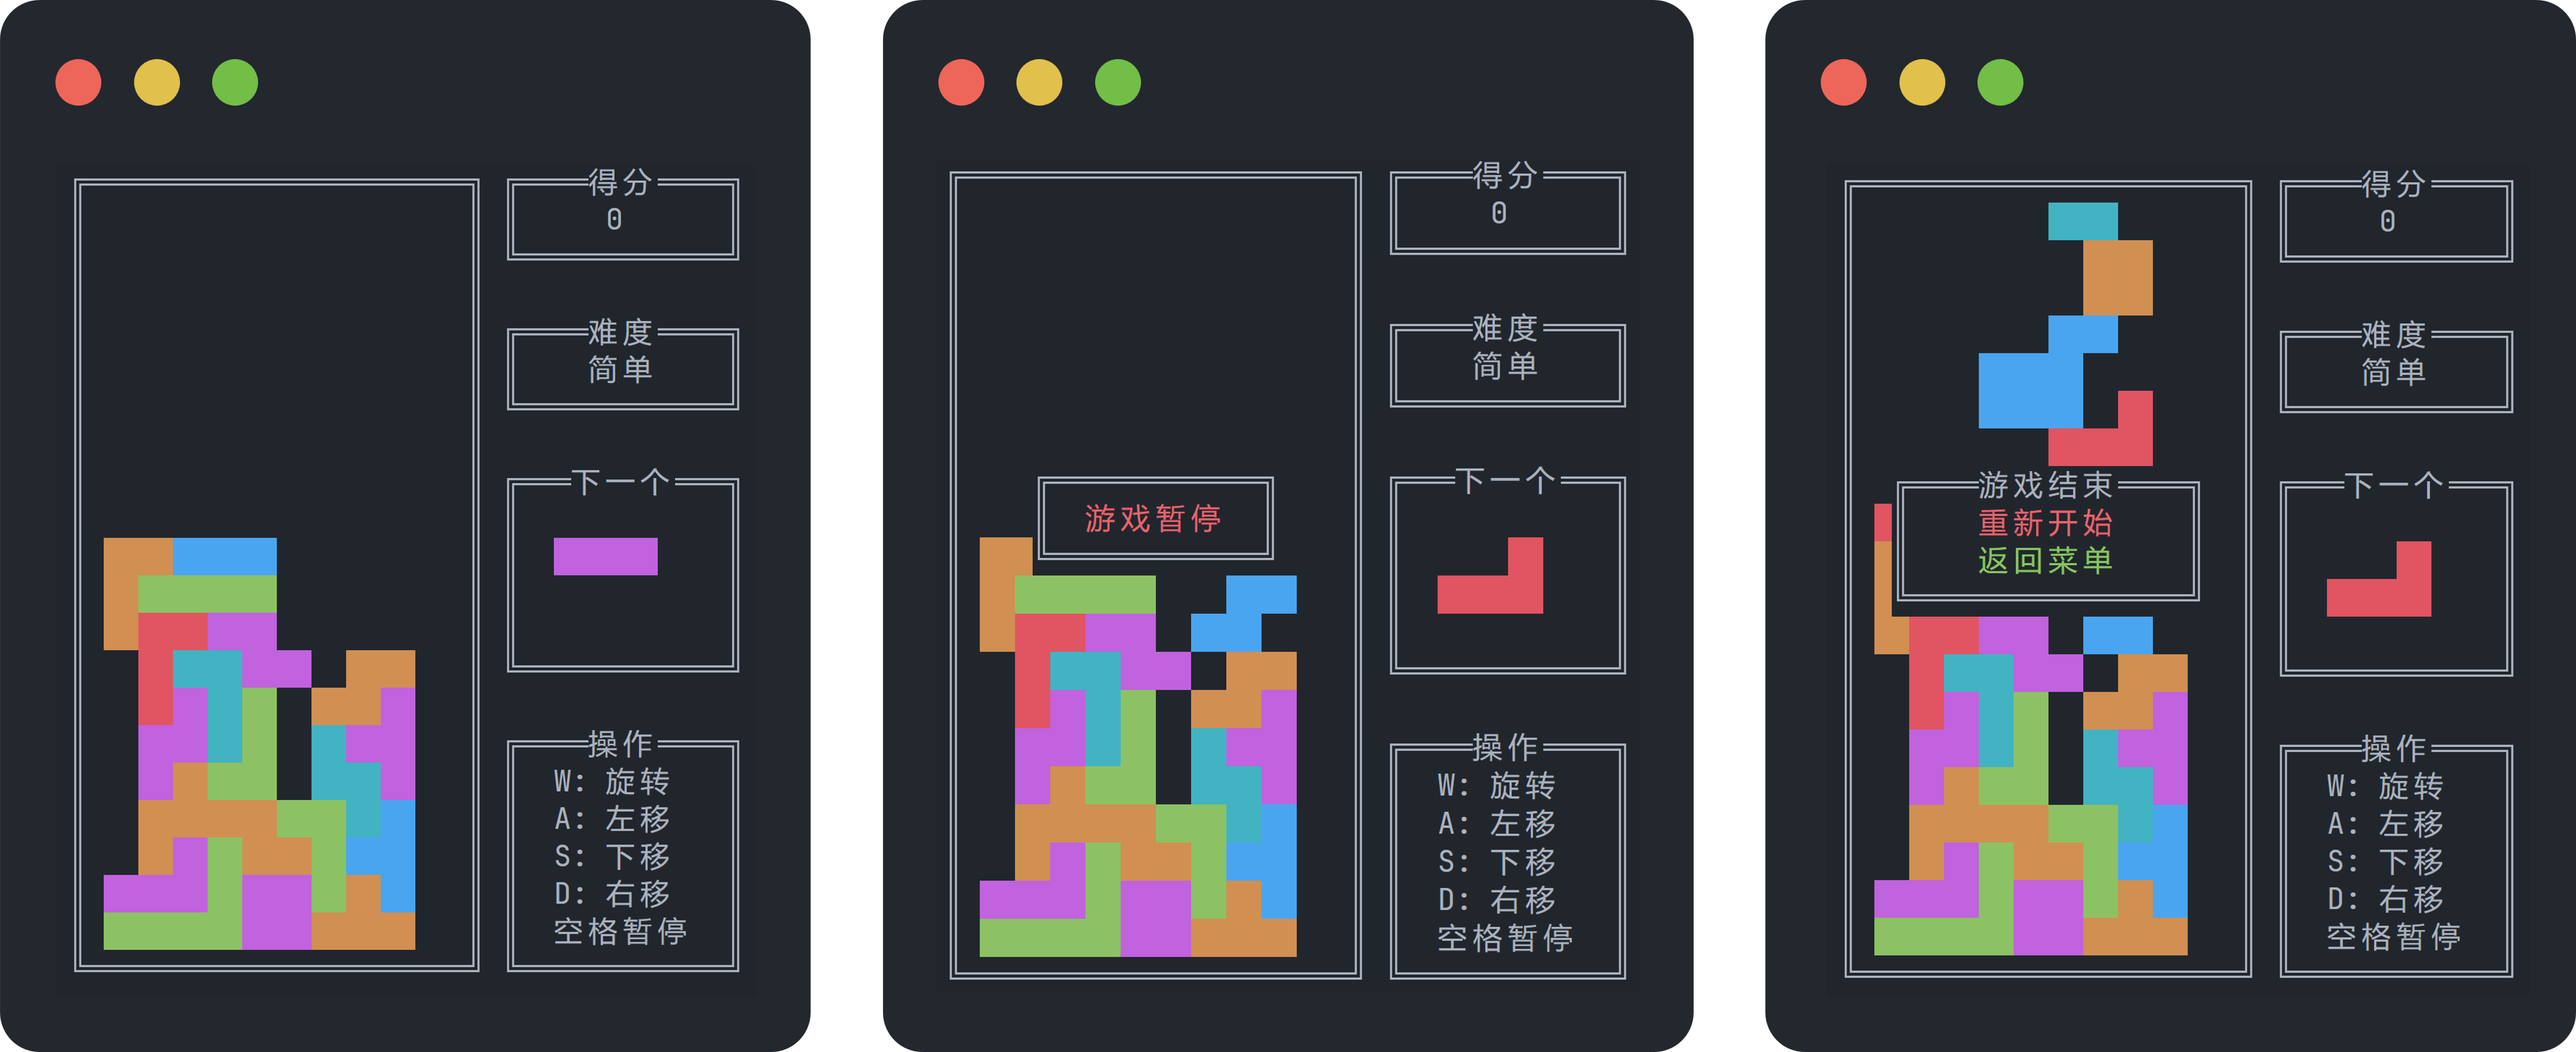
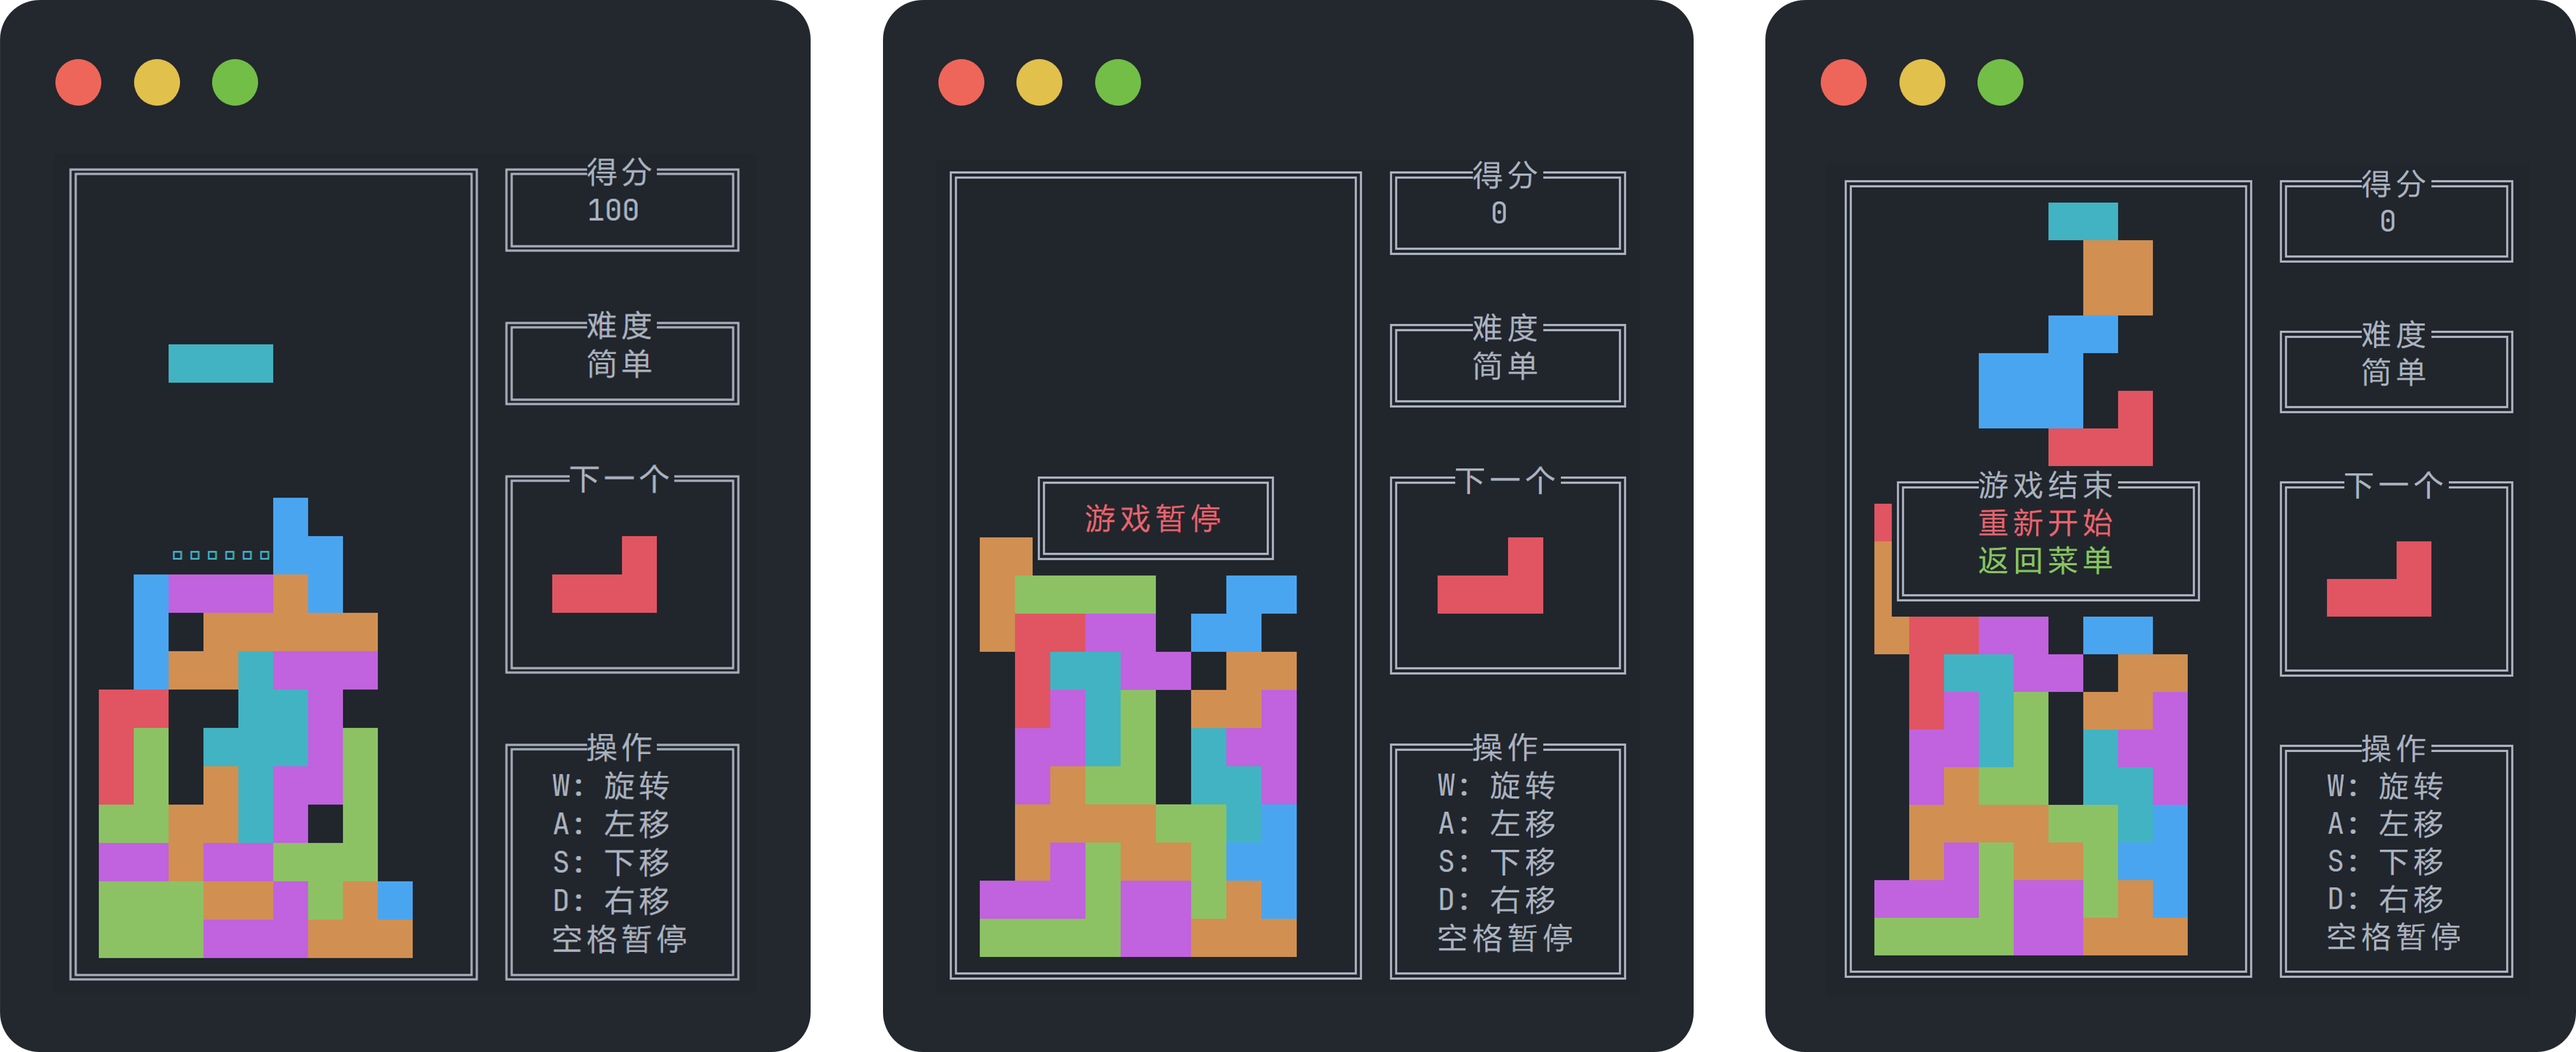
feat: Add drop location display

Changed region(s): [[0.031, 0.1554, 0.3103, 0.9325], [0.0621, 0.3108, 0.1241, 0.373]]

diff --git a/test/test.cpp b/test/test.cpp
@@ -35,8 +35,10 @@ void Test::print_map(const std::vector<std::vector<Color>>& map) {
         for(auto col: row) {
             if(col == Color::NONE) {
                 std::cout << "  ";
-            } else {
+            } else if((int)col <= 6){
                 std::cout << "██";
+            } else {
+                std::cout << "▫▫";
             }
         }
         std::cout << " ║" << std::endl;
@@ -48,8 +50,17 @@ void Test::print_map(const std::vector<std::vector<Color>>& map) {
     std::cout << "═╝" << std::endl;
 }
 
+void print(const std::vector<std::vector<Color>>& map) {
+    for(auto row: map) {
+        for(auto col: row) {
+            std::cout << int(col) << " ";
+        }
+        std::cout << std::endl;
+    }
+}
+
 Test::~Test() {
-    std::cout << GREEN << "All Tests Passed!" << std::endl;
+    std::cout << ANSI_GREEN << "All Tests Passed!" << std::endl;
 }
 
 void Test::block_test() {
@@ -122,7 +133,7 @@ void Test::block_test() {
     CHECK_EQUAL(long_stick.right(), 5);
     CHECK_EQUAL(long_stick.top(), 4);
 
-    std::cout << GREEN << "block_test() Passed!" << RESET << std::endl;
+    std::cout << ANSI_GREEN << "block_test() Passed!" << RESET << std::endl;
 }
 
 void Test::table_test() {
@@ -131,6 +142,7 @@ void Test::table_test() {
         {(Color)0, (Color)0, (Color)0, (Color)0, (Color)0},
         {(Color)0, (Color)0, (Color)0, (Color)0, (Color)0},
         {(Color)0, (Color)0, (Color)0, (Color)0, (Color)0},
+
         {(Color)0, (Color)0, (Color)0, (Color)0, (Color)0},
         {(Color)0, (Color)0, (Color)0, (Color)0, (Color)0},
         {(Color)0, (Color)0, (Color)0, (Color)0, (Color)0},
@@ -140,23 +152,23 @@ void Test::table_test() {
     };
     Table table = Table(5 ,6, map);
     table.spawn(Block(BlockType::STAIR_LEFT, 0, 0));
-    CHECK_EQUAL((int)table.touch(), (int)TouchType::NONE);
+    CHECK_EQUAL((int)table.touch(table.block_), (int)TouchType::NONE);
     print_map(table.map());
 
-    table.spawn(Block(BlockType::STAIR_LEFT, -1, 0));
-    CHECK_EQUAL((int)table.touch(), (int)TouchType::BORDER);
+    table.spawn(Block(BlockType::STAIR_RIGHT, -1, 0));
+    CHECK_EQUAL((int)table.touch(table.block_), (int)TouchType::BORDER);
     print_map(table.map());
 
-    table.spawn(Block(BlockType::STAIR_LEFT, 1, 5));
-    CHECK_EQUAL((int)table.touch(), (int)TouchType::NONE);
+    table.spawn(Block(BlockType::STICK, 1, 5));
+    CHECK_EQUAL((int)table.touch(table.block_), (int)TouchType::NONE);
     print_map(table.map());
 
-    table.spawn(Block(BlockType::STAIR_LEFT, 1, 6));
-    CHECK_EQUAL((int)table.touch(), (int)TouchType::BOTTOM);
+    table.spawn(Block(BlockType::LONG_STICK, 1, 6));
+    CHECK_EQUAL((int)table.touch(table.block_), (int)TouchType::NONE);
     print_map(table.map());
 
-    table.spawn(Block(BlockType::STAIR_LEFT, 1, 10));
-    CHECK_EQUAL((int)table.touch(), (int)TouchType::BOTTOM);
+    table.spawn(Block(BlockType::STAIR, 1, 10));
+    CHECK_EQUAL((int)table.touch(table.block_), (int)TouchType::BOTTOM);
     print_map(table.map());
 
     table.remove_line();
@@ -194,18 +206,17 @@ void Test::table_test() {
     print_map(table.map());
 
     print_map(table.map());
-    table.spawn(Block(BlockType::STAIR_LEFT, 0, 6));
+    table.spawn(Block(BlockType::CORNER_LEFT, 0, 6));
     print_map(table.map());
     table.rotate();
     print_map(table.map());
     CHECK_EQUAL(table.update(Input::RIGHT), false);
-    CHECK_EQUAL((int)table.touch(), (int)TouchType::NONE);
-    CHECK_EQUAL(table.update(Input::DOWN), false);
+    CHECK_EQUAL((int)table.touch(table.block_), (int)TouchType::NONE);
     CHECK_EQUAL(table.update(Input::DOWN), true);
     table.remove_line();
     print_map(table.map());
 
-    table.spawn(Block(BlockType::STAIR_LEFT, 0, 3));
+    table.spawn(Block(BlockType::CORNER_RIGHT, 0, 3));
     table.set_block();
     print_map(table.map());
     CHECK_EQUAL(table.game_loss(), false);

diff --git a/src/table.cpp b/src/table.cpp
@@ -68,7 +68,7 @@ bool Table::update(Input input) {
 void Table::rotate() {
     block_.rotate();
     // 如果有碰撞，则再旋转三次还原
-    if(touch() != TouchType::NONE) {
+    if(touch(block_) != TouchType::NONE) {
         block_.rotate();
         block_.rotate();
         block_.rotate();
@@ -84,8 +84,33 @@ Table::TableArr Table::map() {
         }
     }
 
+    // Block 下落位置
+    Block shadow_block = block_;
+    for(int i = 0; i < map_.size(); i++) {
+        shadow_block.move(0, 1);
+        if(touch(shadow_block) != TouchType::NONE) {
+            shadow_block.move(0, -1);
+            break;
+        }
+    }
+    block::BlockArr arr_s = shadow_block.arr();
     size_t x = 0, y = 0;
+    for(int i = shadow_block.y(); i <= shadow_block.bottom(); i++) { // 行
+        x = 0;
+        for(int j = shadow_block.x(); j <= shadow_block.right(); j++) { // 列
+            if((i >= hidden_ && i < height_ + hidden_)
+                        && (j >= 0 && j < width_)
+                        && arr_s.at(y).at(x) == 1) {
+                copy.at(i - hidden_).at(j) = (Color)((int)shadow_block.color() + 6);
+            }
+            x++;
+        }
+        y++;
+    }
+
+    // Block 位置
     block::BlockArr arr = block_.arr();
+    y = 0;
     for(int i = block_.y(); i <= block_.bottom(); i++) { // 行
         x = 0;
         for(int j = block_.x(); j <= block_.right(); j++) { // 列
@@ -98,6 +123,7 @@ Table::TableArr Table::map() {
         }
         y++;
     }
+
     return copy;
 }
 
@@ -130,14 +156,14 @@ size_t Table::height() {
 
 void Table::move_block(int x) {
     block_.move(x, 0);
-    if(touch() != TouchType::NONE) {
+    if(touch(block_) != TouchType::NONE) {
         block_.move(-x, 0);
     }
 }
 
 bool Table::gravity() {
     block_.move(0, 1);
-    if(touch() == TouchType::BOTTOM) {
+    if(touch(block_) == TouchType::BOTTOM) {
         block_.move(0, -1);
         set_block();
         return true;
@@ -150,19 +176,19 @@ void Table::set_block() {
     removed_line_ = remove_line();
 }
 
-TouchType Table::touch() {
+TouchType Table::touch(Block block) {
     // 检查边界
-    if(block_.left() < 0 || block_.right() > width_ - 1) {
+    if(block.left() < 0 || block.right() > width_ - 1) {
         return TouchType::BORDER;
-    } else if(block_.bottom() >= height_ + hidden_) {
+    } else if(block.bottom() >= height_ + hidden_) {
         return TouchType::BOTTOM;
     }
     // 检查其他方块
     size_t x = 0, y = 0;
-    block::BlockArr arr = block_.arr();
-    for(int i = block_.y(); i <= block_.bottom(); i++) { // 行
+    block::BlockArr arr = block.arr();
+    for(int i = block.y(); i <= block.bottom(); i++) { // 行
         x = 0;
-        for(int j = block_.x(); j <= block_.right(); j++) { // 列
+        for(int j = block.x(); j <= block.right(); j++) { // 列
             if((i > hidden_ - 1 && i < height_ + hidden_) && (j >= 0 && j < width_)) {
                 if(arr.at(y).at(x) == 1 && map_.at(i).at(j) != Color::NONE) {
                     return TouchType::BOTTOM;

diff --git a/test/test.h b/test/test.h
@@ -4,16 +4,16 @@
 #include "block.h"
 #include "table.h"
 
-#define RED "\x1b[0;31m"
-#define GREEN "\x1b[1;32m"
-#define BLUE "\x1b[1;34m"
+#define ANSI_RED "\x1b[0;31m"
+#define ANSI_GREEN "\x1b[1;32m"
+#define ANSI_BLUE "\x1b[1;34m"
 #define RESET "\x1b[0;m"
 
 template<typename value>
 void check_equal(int line, std::string str1, std::string str2, value val1, value val2) {
     if(val1 != val2) {
-        std::cerr << RED << "expected " << BLUE << str1 << RED << " to be " << GREEN << val1
-            << RED << " but get " << BLUE << val2 << RED << " at line " << line << RESET << std::endl;
+        std::cerr << ANSI_RED << "expected " << ANSI_BLUE << str1 << ANSI_RED << " to be " << ANSI_GREEN << val1
+            << ANSI_RED << " but get " << ANSI_BLUE << val2 << ANSI_RED << " at line " << line << RESET << std::endl;
         throw;
     }
 }

diff --git a/src/display.cpp b/src/display.cpp
@@ -113,6 +113,7 @@ void Display::difficulty(int select) {
     print_tail(menu_width_);
 }
 
+// TODO: 拆分，解决终端渲染闪烁问题
 void Display::game_panel(
         Table& table,
         int score,
@@ -138,6 +139,8 @@ void Display::game_table(Table& table) {
         for(int j = 0; j < width; j++) {
             if(map[i][j] == Color::NONE) {
                 std::cout << "  ";
+            } else if((int)map[i][j] > 6){
+                std::cout << with_color("▫▫", (Color)((int)map[i][j] - 6));
             } else {
                 std::cout << with_color("██", map[i][j]);
             }

diff --git a/include/table.h b/include/table.h
@@ -55,7 +55,7 @@ public:
     // 旋转方块
     void rotate();
 
-    // 获取游戏棋盘的矩阵（包含方块）
+    // 获取游戏棋盘的矩阵（包含方块和下落位置）
     TableArr map();
 
     // 获取游戏棋盘的宽度
@@ -75,7 +75,7 @@ private:
     void set_block();
 
     // 检查是否碰到边界或其他方块, 返回碰撞类型
-    TouchType touch();
+    TouchType touch(Block block);
 
     // 消去满足要求的行, 返回消除的行数
     int remove_line();

diff --git a/include/block.h b/include/block.h
@@ -15,13 +15,19 @@ enum class BlockType {
 };
 
 enum class Color {
-    NONE    = 0,
-    RED     = 1,
-    GREEN   = 2,
-    YELLOW  = 3,
-    BLUE    = 4,
-    PURPLE  = 5,
-    CYAN    = 6
+    NONE     = 0,
+    RED      = 1,
+    GREEN    = 2,
+    YELLOW   = 3,
+    BLUE     = 4,
+    PURPLE   = 5,
+    CYAN     = 6,
+    RED_S    = 7,
+    GREEN_S  = 8,
+    YELLOW_S = 9,
+    BLUE_S   = 10,
+    PURPLE_S = 11,
+    CYAN_S   = 12
 };
 
 namespace block {

diff --git a/test/display.cpp b/test/display.cpp
@@ -45,11 +45,11 @@ int main() {
     display.pause_panel(table.width(), table.height());
 
     cin >> s;
-    display.game_over_panel(table.width(), table.height(), 0);
+    display.game_over_panel(table.width(), table.height(), 1);
 
     cin >> s;
     display.clear();
-    display.main_menu(0);
+    display.main_menu(1);
 
     cin >> s;
     display.clear();
